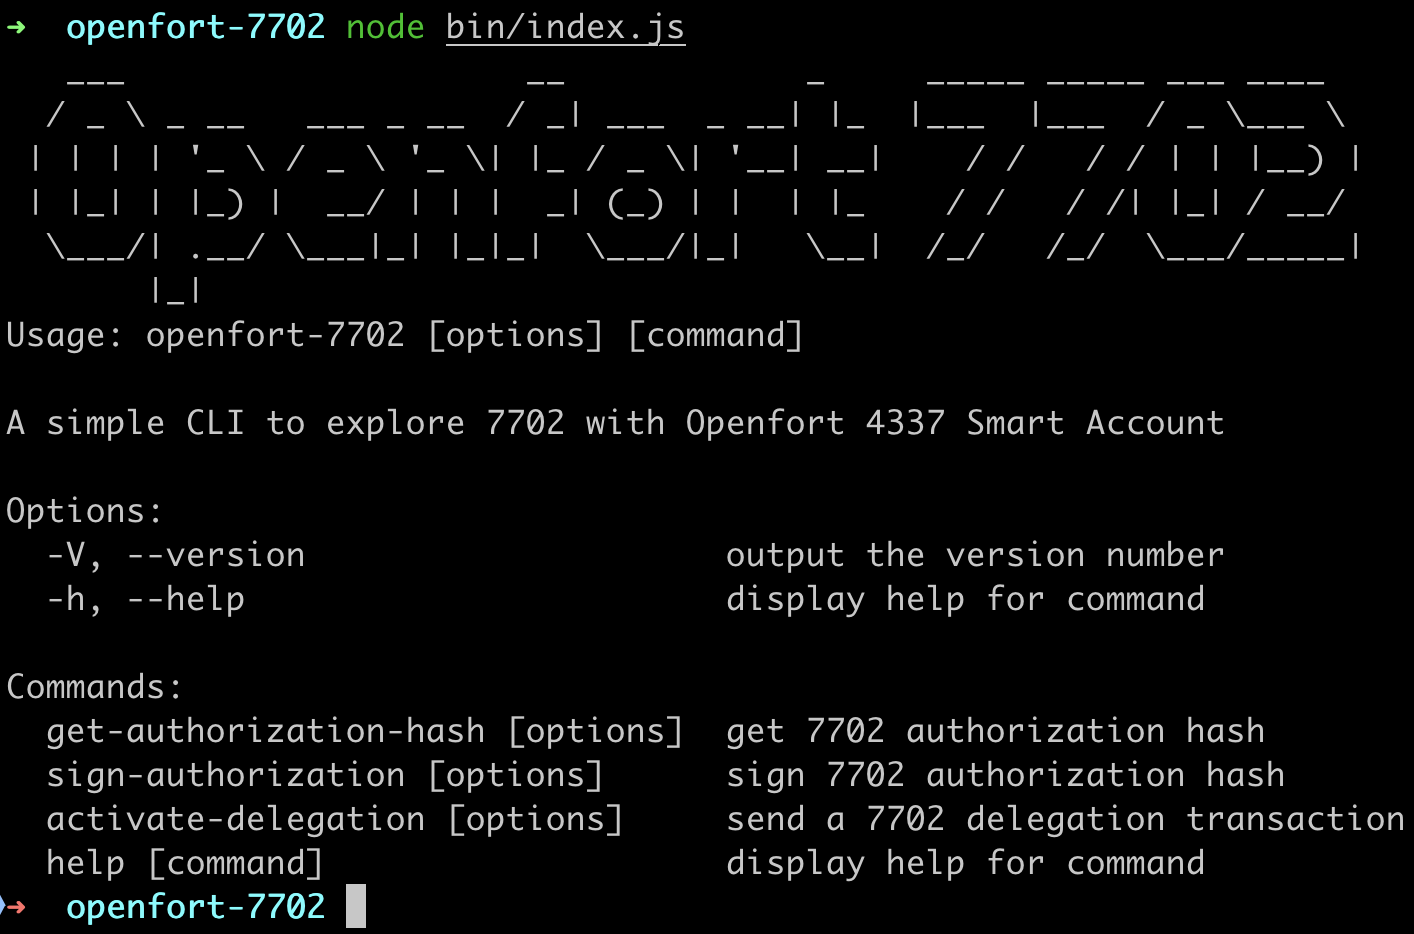
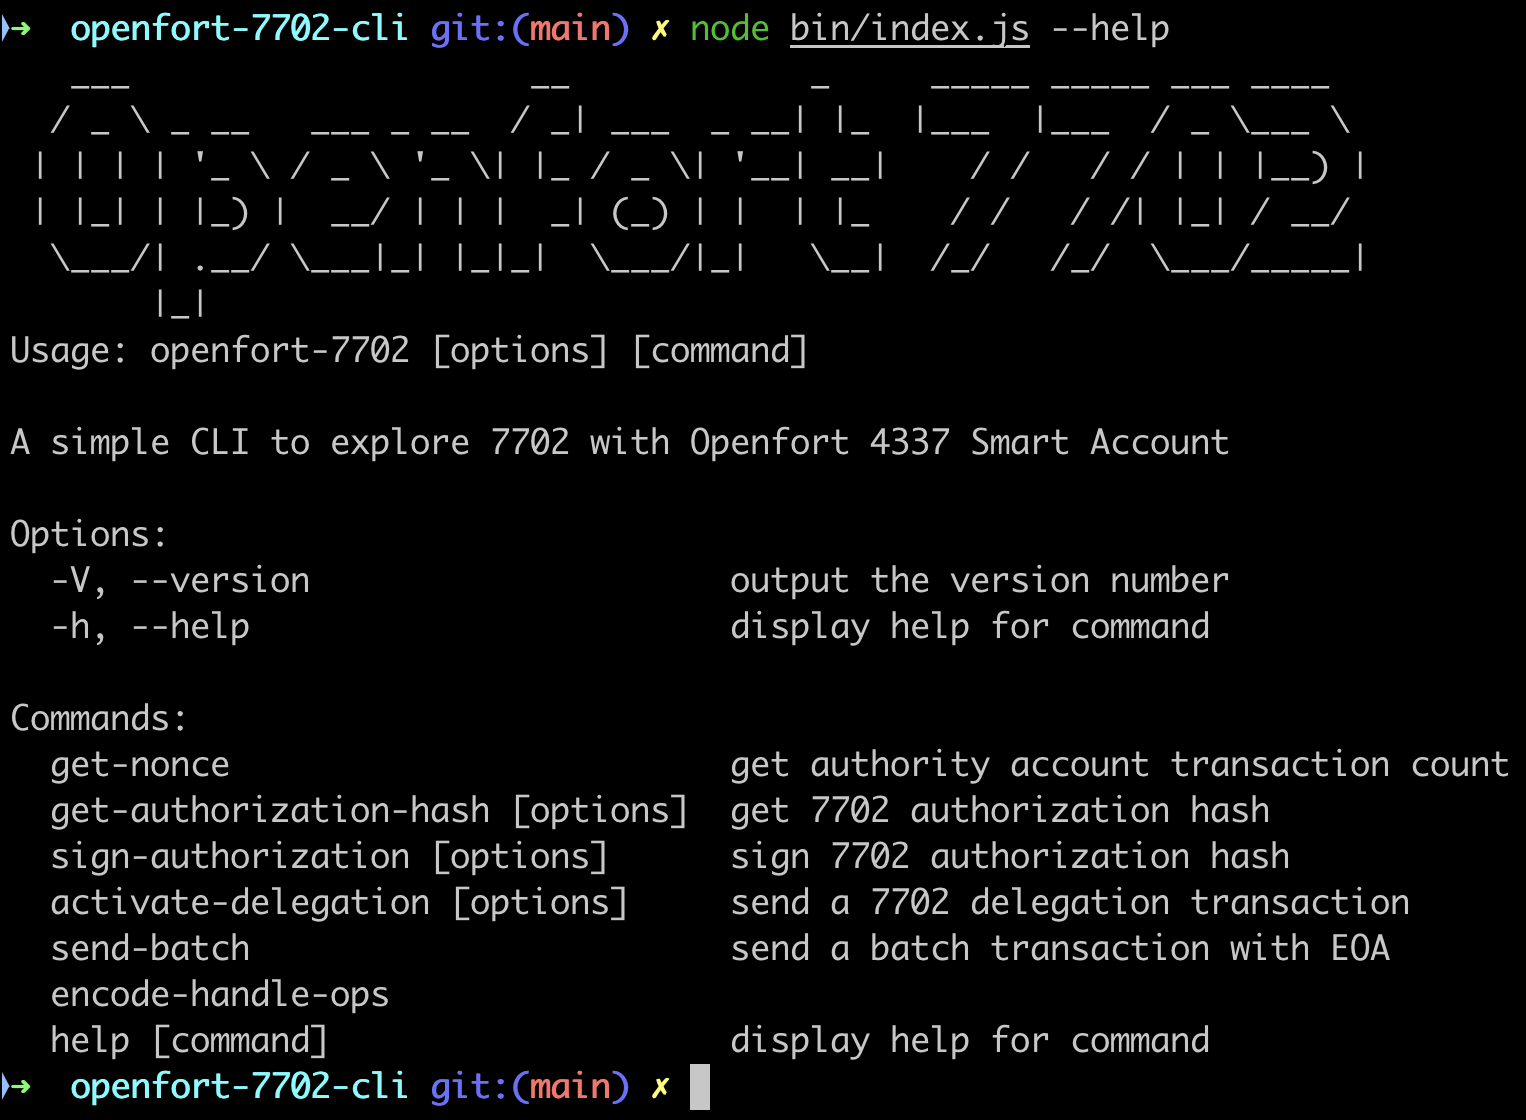
test: send batch

diff --git a/src/index.ts b/src/index.ts
@@ -6,6 +6,7 @@ import {
 import type { SignedAuthorization } from "viem/experimental";
 import { Command } from "commander";
 import { authority } from "./account";
+import type { Address, Hex } from "viem";
 import { encodeFunctionData, parseAbi, parseSignature } from "viem";
 import { sendTransaction } from "viem/actions";
 import { anvil } from "viem/chains";
@@ -18,6 +19,7 @@ import {
 } from "./constants";
 import assert = require("node:assert");
 import { getAccount } from "./openfortSmartAccount";
+import { entryPoint07Abi } from "viem/account-abstraction";
 
 const figlet = require("figlet");
 const program = new Command();
@@ -28,6 +30,16 @@ program
   .name("openfort-7702")
   .description("A simple CLI to explore 7702 with Openfort 4337 Smart Account")
   .version("1.0.0");
+
+program
+  .command("get-nonce")
+  .description("get authority account transaction count")
+  .action(async () => {
+    const nonce = await publicClient.getTransactionCount({
+      address: authority.address,
+    });
+    console.log(`Authority Account Nonce = ${nonce}`);
+  });
 
 program
   .command("get-authorization-hash")
@@ -121,7 +133,7 @@ program
   .action(async () => {
     console.log("Sending batch transaction...");
     const alice = "0xf39Fd6e51aad88F6F4ce6aB8827279cffFb92266";
-    const bob = "0x70997970C51812dc3A010C7d01b50e0d17dc79C8";
+    const bob = "0xa0Ee7A142d267C1f36714E4a8F75612F20a79720";
     const openfortSmartAccount = await getAccount(authority);
 
     const userOp = await bundlerClient.prepareUserOperation({
@@ -152,5 +164,31 @@ program
     // });
     console.log("User operation:", userOp);
   });
+
+// DEBUG COMMAND
+program.command("encode-handle-ops").action(() => {
+  const userOp = {
+    sender: "0x70997970C51812dc3A010C7d01b50e0d17dc79C8" as Address,
+    nonce: 2n,
+    initCode: "0x" as Hex,
+    callData:
[1 lines of base64/hex data omitted]
+    accountGasLimits:
[1 lines of base64/hex data omitted]
+    preVerificationGas: 424242424n,
+    gasFees:
[1 lines of base64/hex data omitted]
+    paymasterAndData: "0x" as Hex,
+    signature:
[1 lines of base64/hex data omitted]
+  };
+
+  const encodedHandleOps = encodeFunctionData({
+    abi: entryPoint07Abi,
+    functionName: "handleOps",
+    args: [[userOp], "0xf39Fd6e51aad88F6F4ce6aB8827279cffFb92266"],
+  });
+  console.log(encodedHandleOps);
+});
 
 program.parse();

diff --git a/src/openfortSmartAccount.ts b/src/openfortSmartAccount.ts
@@ -66,7 +66,7 @@ export async function getAccount(authority: Account) {
     },
     async getFactoryArgs() {
       // Smart Account Proxy has been directly injected in the EOA
-      // and initialize during the 7702 transaction
+      // and initialized during the 7702 transaction
       // no factory involve in the business
       return { factory: undefined, factoryData: undefined };
     },
